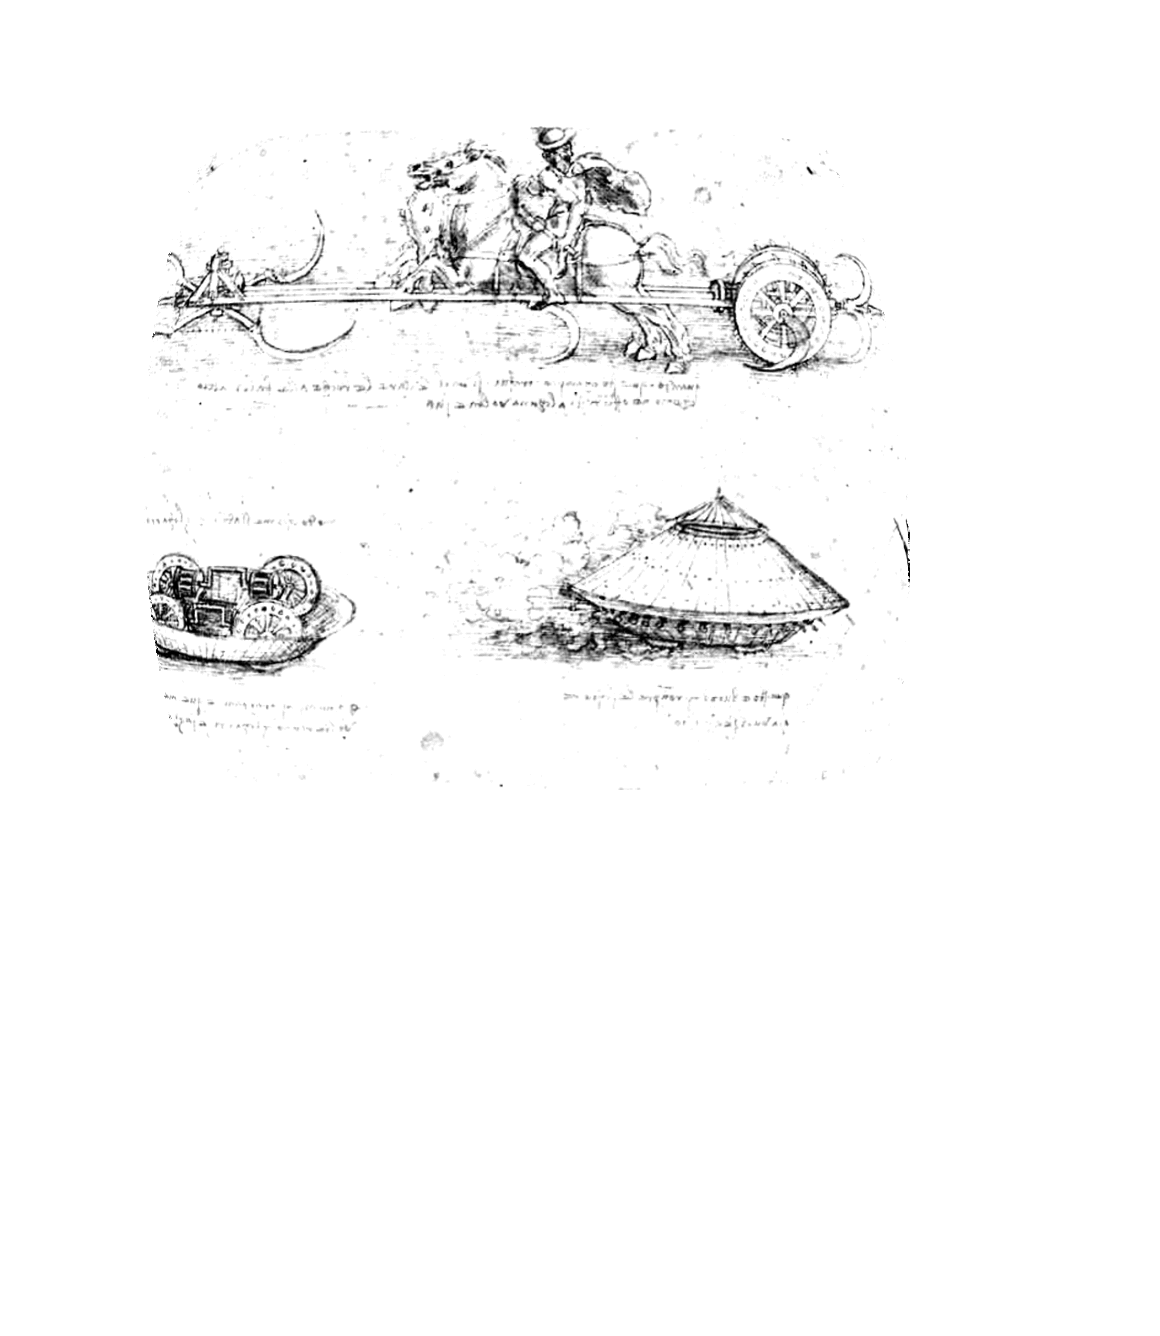
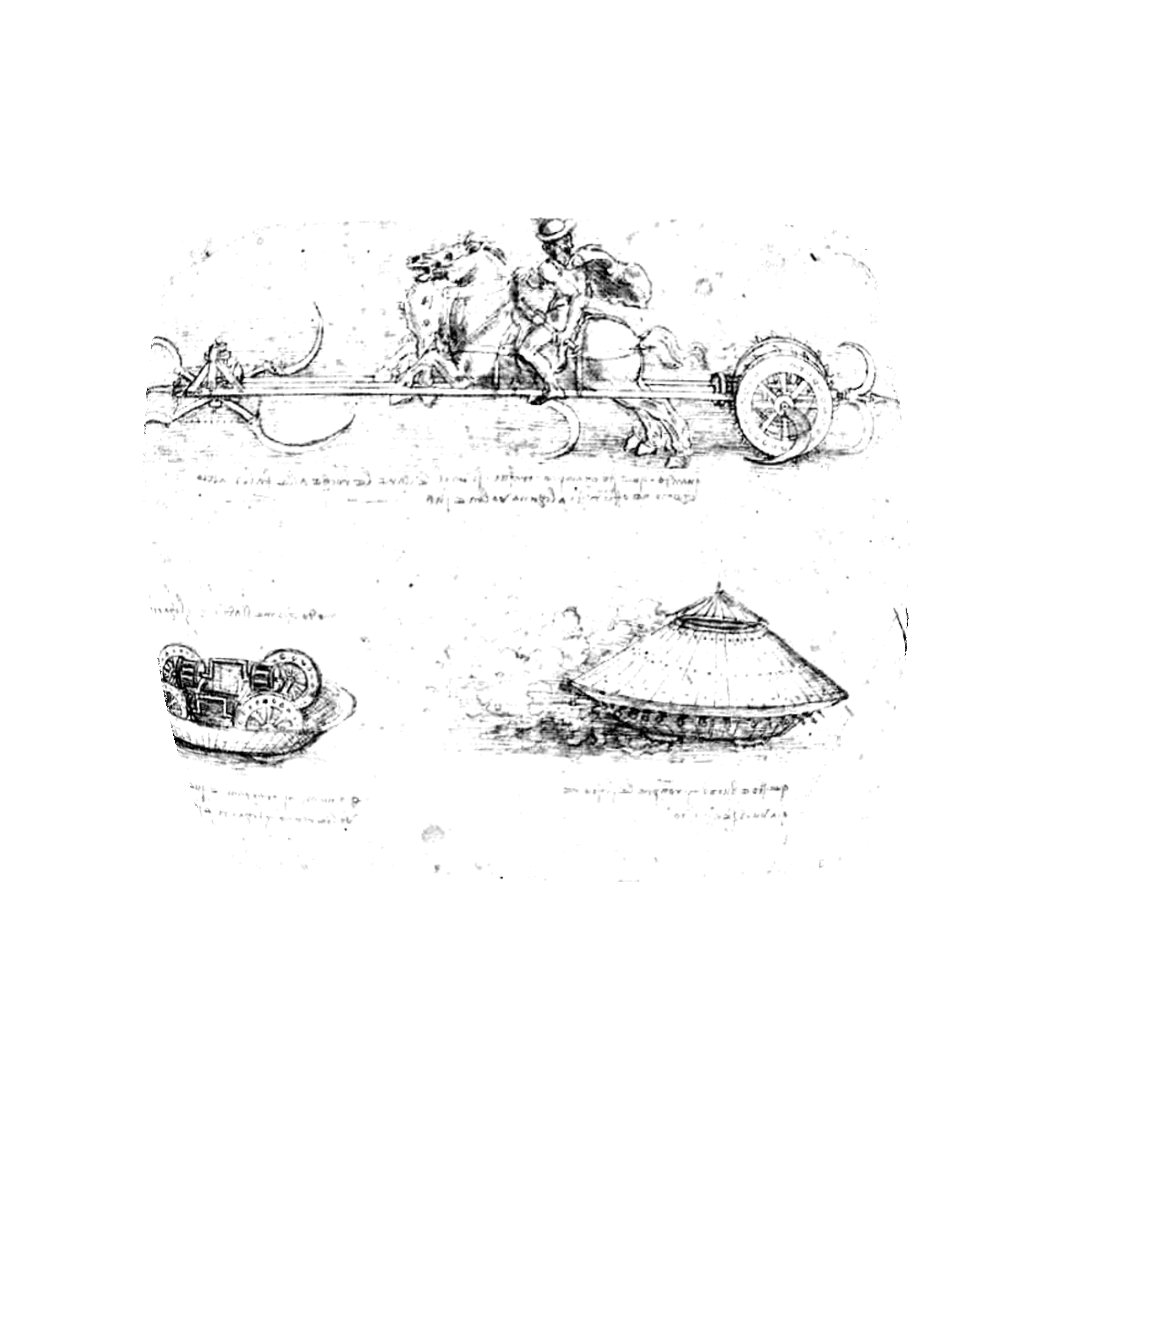
Ariadna de Kauffmann, grabada, en la corona — y Leonardo baja 70 px
«Añade esta en la parte de arriba de la máscara que está libre y baja un
pelín la de leonardo para que esta también se vea.»

Libre de verdad sólo había una media luna de 87 px entre el canto del
casco y la pluma de Leonardo, así que hubo que fabricar el hueco. Bajar
el Leonardo cuesta dibujo, porque la placa es opaca y se lo come por
abajo: medido dentro de la carcasa, 70 px dejan el 90 % de su tinta; 110,
el 82 %; 130, el 71 %. Setenta es donde el carro falcado sigue entero y
la media luna pasa a 157 px.

Es óleo, no pluma, así que va grabada —módulo del gradiente sobre la
luminancia suavizada— como La Creación de Adán, porque el claroscuro
metido al alfa tal cual se vuelve mancha. Y dos cosas que la hoja del
mentón no podía saber todavía:

· La finura de la línea se mide en el DESTINO y no en la fuente: el sigma
  del grabado se multiplica por la reducción, así que copiar «sigma 2,0»
  a un cuadro de 718 px habría dado una línea casi el doble de gorda.

· Y va al 22 % y no al 30. La corona es donde cae la luz horneada, al
  revés que el mentón, que está en sombra: al 30 % daba 2,83:1 —más
  fuerte que el propio Leonardo— y al 22 % da 2,27:1, gemelo del Leonardo
  (2,26) y del plano de la placa (2,28). Es la regla del mentón leída al
  revés: se conserva el contraste, no la opacidad.

Recorte (200,98)-(670,425) del original: empieza detrás de la mano alzada
y con él se va la línea del horizonte, que sobre una cúpula curva es lo
[…]

Changed region(s): [[0.1241, 0.0921, 0.7759, 0.6138], [0.1241, 0.3683, 0.3103, 0.5831], [0.5897, 0.1228, 0.6207, 0.1534]]

diff --git a/index.html b/index.html
@@ -1401,6 +1401,15 @@ body.has-cur .cowl{ --rw:46%; --rh:13%; }
    quitamos la tierra»). Y se descartó cubrir el casco entero: eso borra
    el dibujo y lo deja en textura, y lo que pidió es ESTA foto.
 
+   Y LA HOJA BAJÓ 70 PX —de y=124 a y=194— para hacerle sitio a la
+   Ariadna de Kauffmann en la corona: «baja un pelín la de leonardo para
+   que esta también se vea». Setenta y no más, y el número lo puso la
+   placa: es opaca y se come la hoja por abajo, así que cada píxel de
+   bajada cuesta dibujo. Medido dentro de la carcasa, bajando 70 px queda
+   el 90 % de la tinta; 110 px, el 82 %; 130 px, el 71 %. A 70 el carro
+   falcado sigue entero y la corona se abre de 87 a 157 px de banda
+   libre, que es lo que necesitaba la otra.
+
    El horno es `vinci/hornea.py`: la tinta al alfa con el papel estimado
    localmente, ya colocada y ya combada, a 1,25x del cuadro —la escala de
    ane-helmlines.png, por lo mismo— y con el alfa en 32 niveles, que
@@ -1456,6 +1465,52 @@ body.has-cur .cowl{ --rw:46%; --rh:13%; }
   -webkit-mask-size:100% 100%; mask-size:100% 100%;
   -webkit-mask-repeat:no-repeat; mask-repeat:no-repeat;
   opacity:.46;
+}
+/* Y LA TERCERA: ARIADNA ABANDONADA POR TESEO, de Angelica Kauffmann
+   (h. 1774), en la corona. Ella la pidió «en la parte de arriba de la
+   máscara que está libre», y libre de verdad sólo había una media luna
+   de 87 px entre el canto del casco y la pluma de Leonardo; de ahí que
+   el Leonardo baje 70 px y la media luna pase a 157. Es óleo, no pluma,
+   así que va por el mismo camino que La Creación de Adán: GRABADA
+   —módulo del gradiente sobre la luminancia suavizada—, porque el
+   claroscuro metido al alfa tal cual se vuelve mancha.
+
+   DOS COSAS QUE LA HOJA DEL MENTÓN NO PODÍA SABER TODAVÍA:
+
+   LA FINURA DE LA LÍNEA SE MIDE EN EL DESTINO, NO EN LA FUENTE. El sigma
+   del grabado se multiplica por la reducción: el Adán sale de un recorte
+   de 1.130 px puesto a 560, o sea sigma 2,0 → 0,99 px reales. Este
+   cuadro es de 718 px y el recorte mucho menor, así que copiar «sigma
+   2,0» habría dado una línea casi el doble de gorda —de otro taller—.
+   Se fija el sigma EFECTIVO en esos 0,99 px y se deduce el de la fuente.
+
+   Y POR ESO VA AL 22 % Y NO AL 30 %. La corona es justo donde cae la luz
+   horneada (ane-lit al 34 %), al revés que el mentón, que está en
+   sombra. Medido sobre la pieza compuesta: al 30 % da 2,83:1, más fuerte
+   que el propio Leonardo y bastante para comerse la cara; al 22 % da
+   2,27:1, gemelo del Leonardo (2,26) y del plano de la placa (2,28). Es
+   la misma regla del mentón leída al revés —SE CONSERVA EL CONTRASTE, NO
+   LA OPACIDAD—: allí hubo que subir de 30 a 46, aquí hay que bajar de 30
+   a 22.
+
+   FUERA EL MAR. El recorte, (200,98)-(670,425) del original, empieza
+   detrás de la mano alzada, y con él se va la línea del horizonte: una
+   recta larguísima sobre una cúpula curva es lo único que declara que
+   hay un rectángulo pegado, lo mismo que las cornisas del marco pintado
+   de la Sixtina. Se pierde el barco de Teseo alejándose, que es el
+   asunto del cuadro; medía 15 px y no se leía. Queda el gesto, que sí:
+   un brazo tendido hacia donde se fue y la frente caída en la otra mano.
+
+   Va en la caja (233,18) a 380 px de ancho, el canto se desvanece 26 px
+   y se comba con la pieza por la misma proyección que la malla, como
+   cualquier calca que entre aquí. El horno es `dos/hornea_ariadna.py`. */
+.cowl__ariadna{
+  position:absolute; inset:0;
+  background:var(--gold-ink);
+  -webkit-mask-image:url("ane-ariadna.png"); mask-image:url("ane-ariadna.png");
+  -webkit-mask-size:100% 100%; mask-size:100% 100%;
+  -webkit-mask-repeat:no-repeat; mask-repeat:no-repeat;
+  opacity:.22;
 }
 /* La placa frontal, dorada. Es la que manda: lleva los ojos, la boca y
    casi toda la librea. Un metal no es un color plano: la luz entra por
@@ -3939,6 +3994,7 @@ body.is-live .rise > i{ transform:none; }
                sale solo en el verde oscuro sin una segunda mascara. -->
           <div class="cowl__vinci"></div>
           <div class="cowl__adan"></div>
+          <div class="cowl__ariadna"></div>
           <div class="cowl__plate"></div>
           <div class="cowl__mapa"><i></i></div>
           <div class="cowl__rim"></div>
